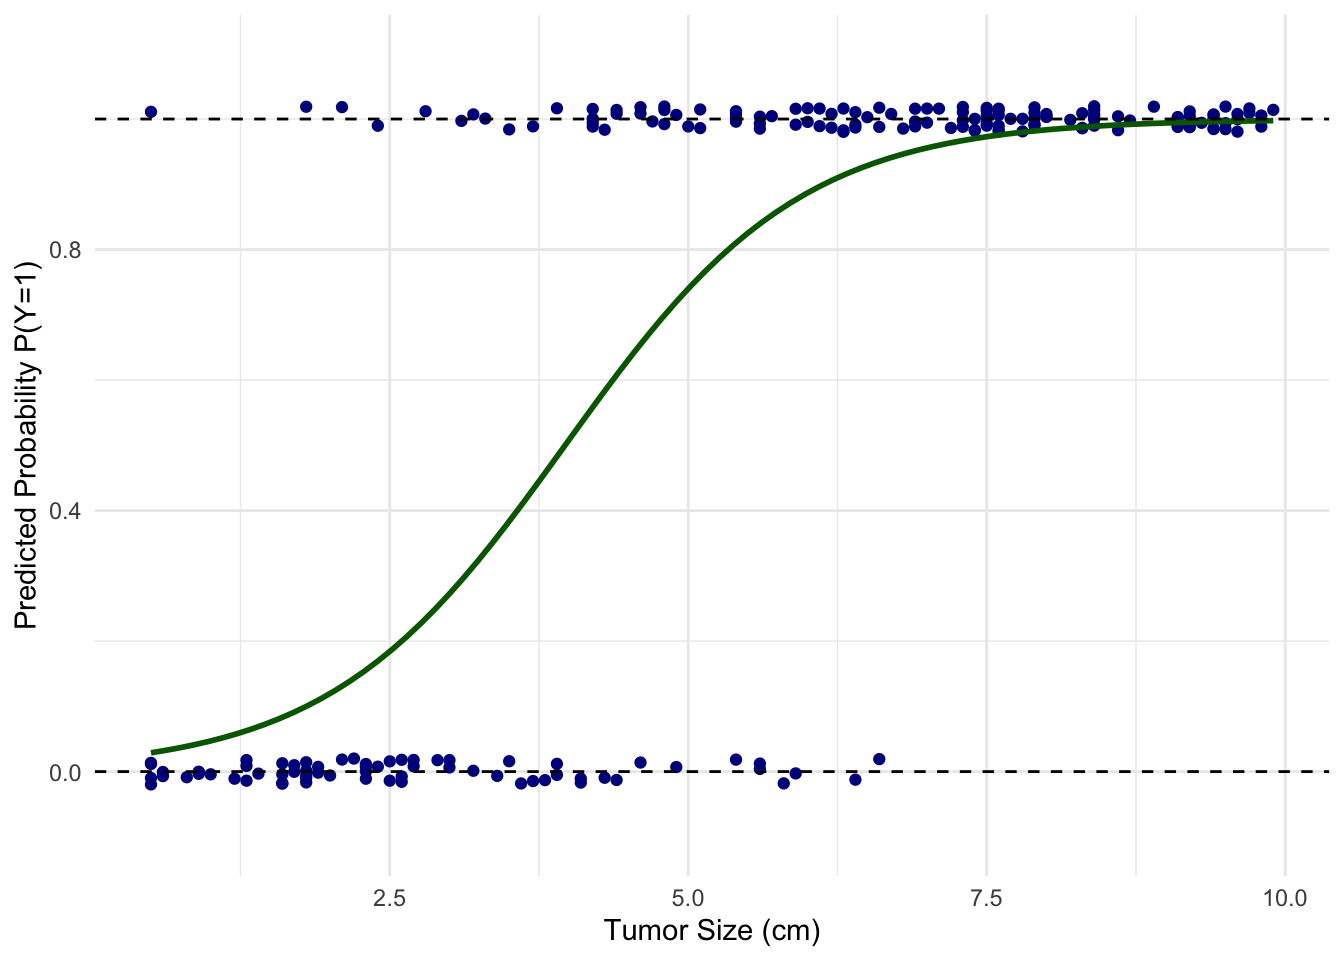
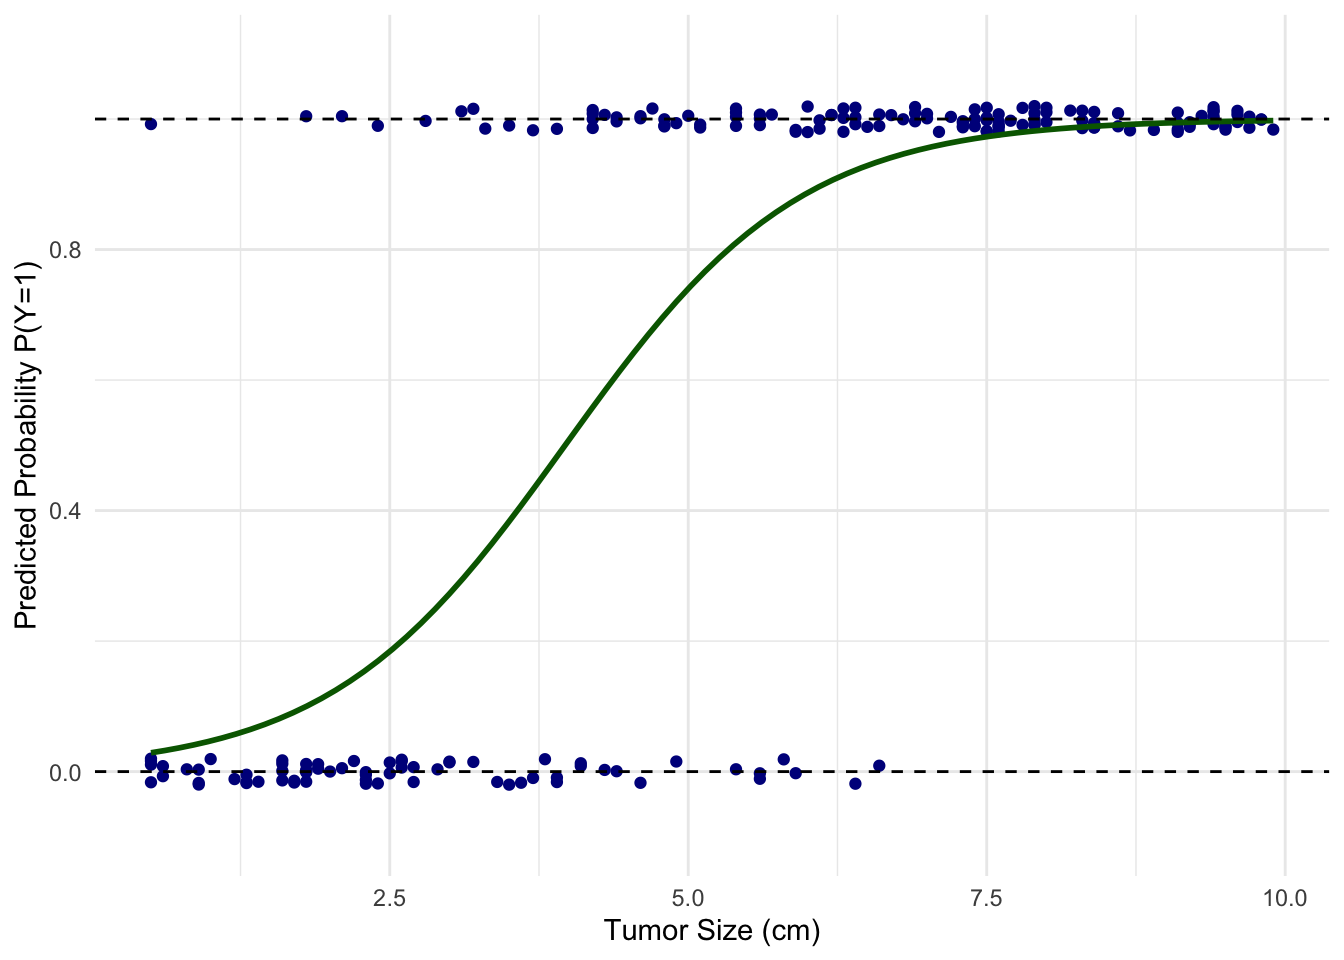
Built site for gh-pages

diff --git a/session-2.html b/session-2.html
@@ -289,7 +289,7 @@ pre > code.sourceCode > span > a:first-child::before { text-decoration: underlin
 <p>Best practice in programming:</p>
 <ul>
 <li>When naming files and directories, avoid spaces. Use underscores or dashes for readability. (e.g.&nbsp;<code>my_important_file.csv</code>)</li>
-<li>If including dates in naming files, use a standard format such as YYYY-MM-DD or YYYYMMDD. (e.g.&nbsp;`query_result_2026-05-21.csv)</li>
+<li>If including dates in naming files, use a standard format such as YYYY-MM-DD or YYYYMMDD. (e.g.&nbsp;<code>query_result_2026-05-21.csv</code>)</li>
 <li>Comment copiously: you think you will remember what you were doing but you won’t. Within a code cell, comment using <code>#</code>. Any lines beginning with <code>#</code> are ignored during code execution. Alternatively, utilize “markdown” cells.</li>
 <li>Write reproducible code: keep a linear flow in a Notebook, and write it so that you have a clear “paper trail”. Anyone who runs your Notebook should be able to get the same result.</li>
 <li>Feel free to utilize AI to help you with coding but make sure you understand every line (That’s why you should still learn the basics. No “vibe coding” in this workshop and your research!)</li>
